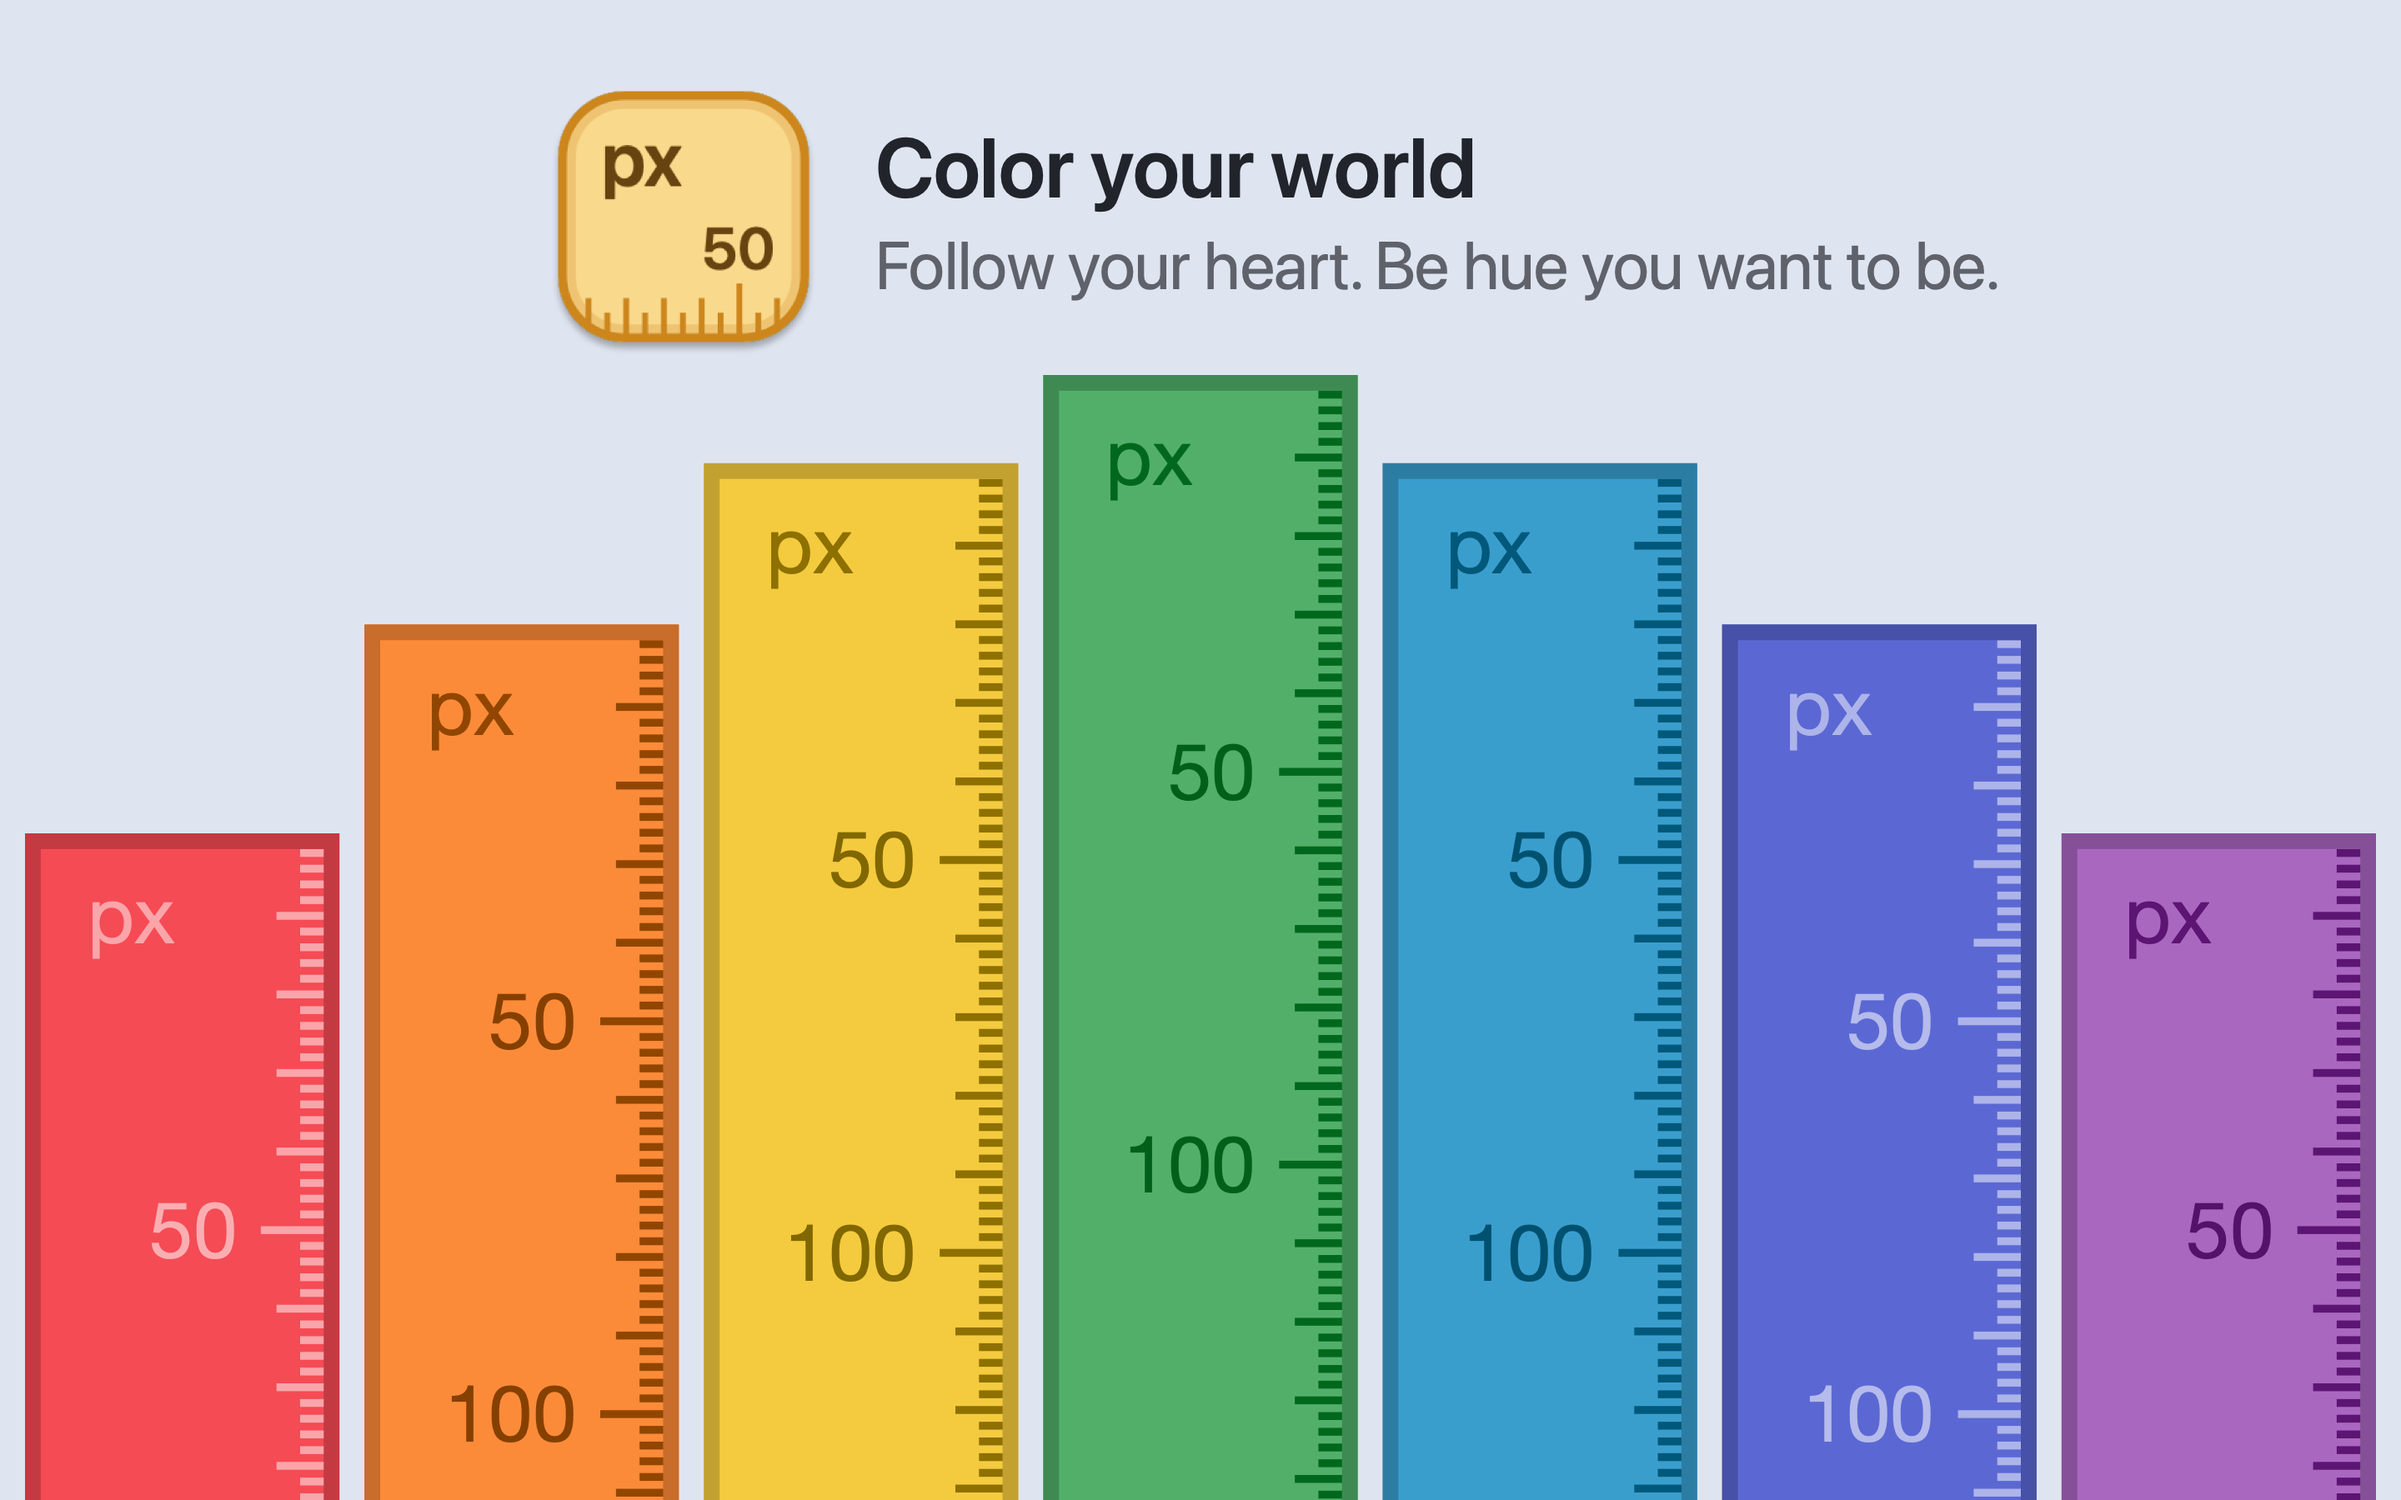
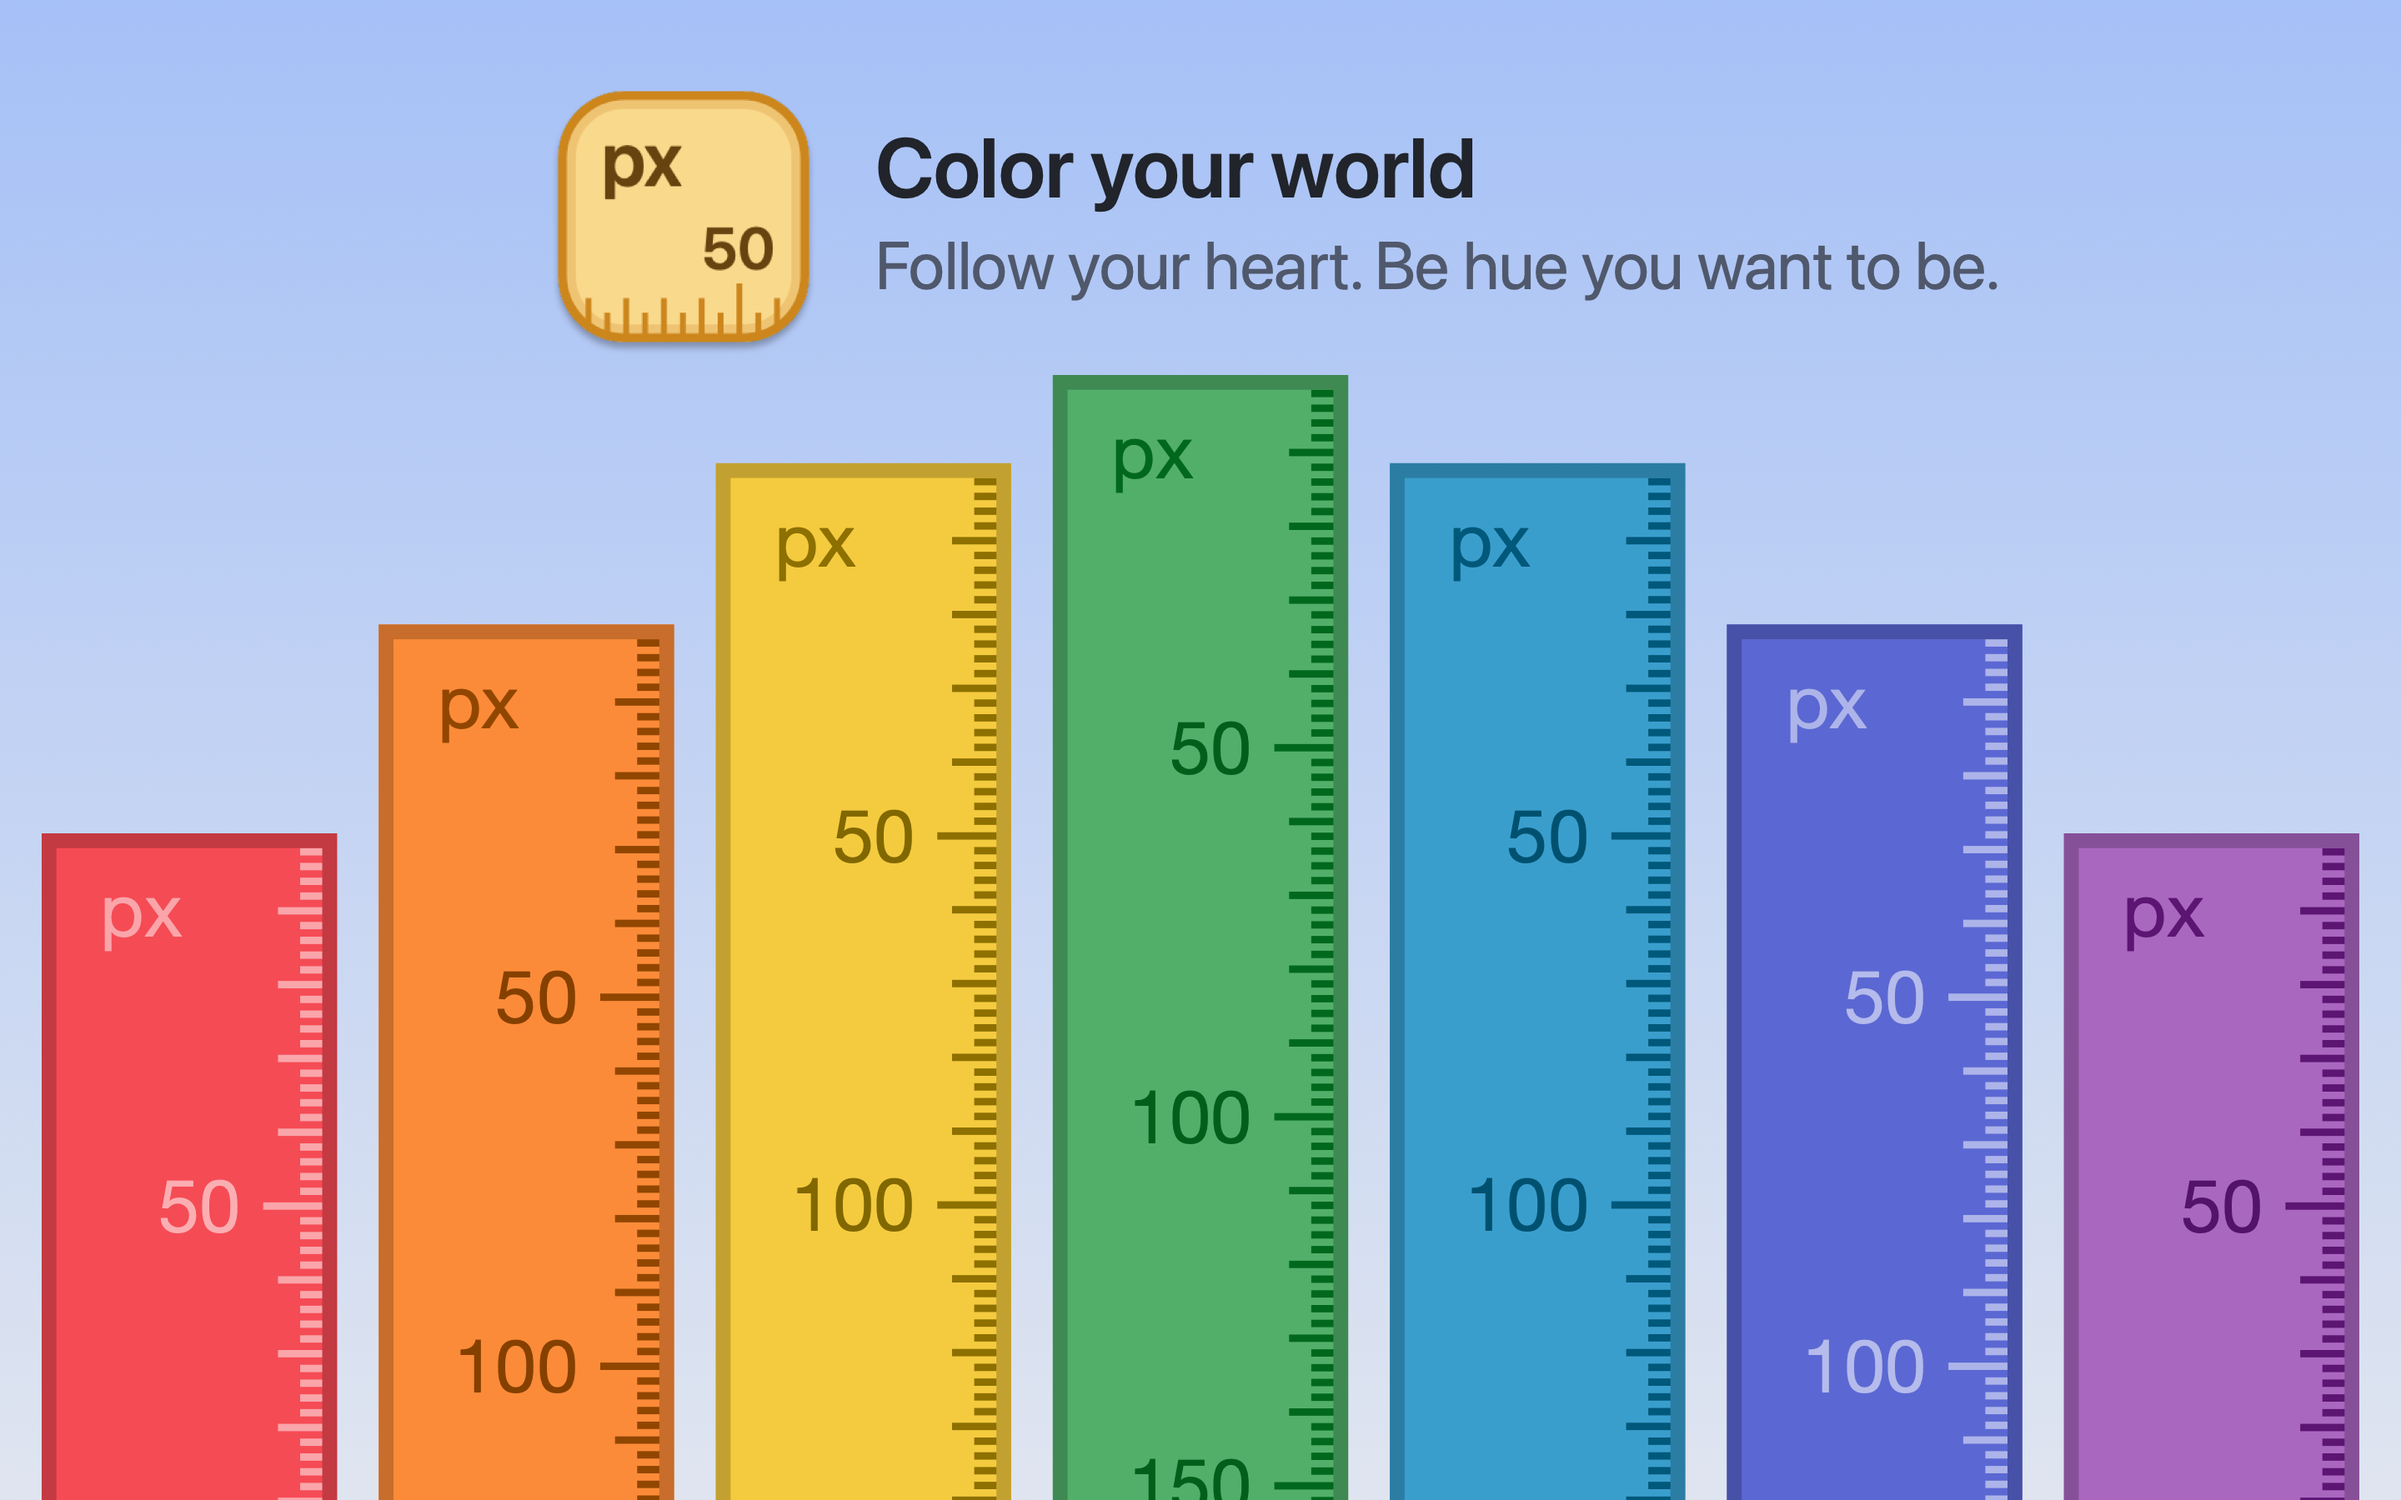
update store screenshots

diff --git a/Free Ruler/AppStoreScreenshotPreview.swift b/Free Ruler/AppStoreScreenshotPreview.swift
@@ -41,6 +41,7 @@ private struct AppStoreScreenshotScreen {
     let previewName: String
     let outputFilename: String
     let backgroundColor: NSColor
+    let bottomBackgroundColor: NSColor
     let usesDarkCopy: Bool
 
     static let measure = AppStoreScreenshotScreen(
@@ -50,6 +51,7 @@ private struct AppStoreScreenshotScreen {
         previewName: AppStoreMeasureScreenshotLayout.previewName,
         outputFilename: AppStoreMeasureScreenshotLayout.outputFilename,
         backgroundColor: AppStoreMeasureScreenshotLayout.backgroundColor,
+        bottomBackgroundColor: AppStoreMeasureScreenshotLayout.bottomBackgroundColor,
         usesDarkCopy: false
     )
 
@@ -60,6 +62,7 @@ private struct AppStoreScreenshotScreen {
         previewName: AppStoreUnitsScreenshotLayout.previewName,
         outputFilename: AppStoreUnitsScreenshotLayout.outputFilename,
         backgroundColor: AppStoreUnitsScreenshotLayout.backgroundColor,
+        bottomBackgroundColor: AppStoreUnitsScreenshotLayout.bottomBackgroundColor,
         usesDarkCopy: false
     )
 
@@ -70,6 +73,7 @@ private struct AppStoreScreenshotScreen {
         previewName: AppStoreColorsScreenshotLayout.previewName,
         outputFilename: AppStoreColorsScreenshotLayout.outputFilename,
         backgroundColor: AppStoreColorsScreenshotLayout.backgroundColor,
+        bottomBackgroundColor: AppStoreColorsScreenshotLayout.bottomBackgroundColor,
         usesDarkCopy: true
     )
 
@@ -80,6 +84,7 @@ private struct AppStoreScreenshotScreen {
         previewName: AppStoreGroupsScreenshotLayout.previewName,
         outputFilename: AppStoreGroupsScreenshotLayout.outputFilename,
         backgroundColor: AppStoreGroupsScreenshotLayout.backgroundColor,
+        bottomBackgroundColor: AppStoreGroupsScreenshotLayout.bottomBackgroundColor,
         usesDarkCopy: true
     )
 
@@ -90,6 +95,7 @@ private struct AppStoreScreenshotScreen {
         previewName: AppStoreFlipScreenshotLayout.previewName,
         outputFilename: AppStoreFlipScreenshotLayout.outputFilename,
         backgroundColor: AppStoreFlipScreenshotLayout.backgroundColor,
+        bottomBackgroundColor: AppStoreFlipScreenshotLayout.bottomBackgroundColor,
         usesDarkCopy: false
     )
 
@@ -100,6 +106,7 @@ private struct AppStoreScreenshotScreen {
         previewName: AppStorePreferencesScreenshotLayout.previewName,
         outputFilename: AppStorePreferencesScreenshotLayout.outputFilename,
         backgroundColor: AppStorePreferencesScreenshotLayout.backgroundColor,
+        bottomBackgroundColor: AppStorePreferencesScreenshotLayout.bottomBackgroundColor,
         usesDarkCopy: false
     )
 
@@ -394,12 +401,13 @@ private enum AppStoreMeasureScreenshotLayout {
     static let previewName = "Measure anything"
     static let outputFilename = "01-measure-anything.png"
     static let backgroundColor = #colorLiteral(red: 0.385, green: 0.49, blue: 0.7, alpha: 1)
+    static let bottomBackgroundColor = #colorLiteral(red: 0.2844348404, green: 0.3620079787, blue: 0.5171542553, alpha: 1)
 
     static let rulerScale: CGFloat = 4.4
     static let rulerCornerX: CGFloat = 420
     static let rulerCornerY: CGFloat = 500
-    static let horizontalRulerLength: CGFloat = 1888
-    static let verticalRulerLength: CGFloat = 1070
+    static let horizontalRulerLength: CGFloat = 1860
+    static let verticalRulerLength: CGFloat = 1050
     static let sampleWindowWidth: CGFloat = 1850
     static let sampleWindowHeight: CGFloat = 1040
 
@@ -496,7 +504,8 @@ private enum AppStoreUnitsScreenshotLayout {
     static let subtitle = "Use pixels, millimeters, or inches."
     static let previewName = "Units"
     static let outputFilename = "05-switch-units.png"
-    static let backgroundColor = #colorLiteral(red: 0.3084420562, green: 0.521068275, blue: 0.509829402, alpha: 1)
+    static let backgroundColor = #colorLiteral(red: 0.3528921235, green: 0.5961602394, blue: 0.5833017148, alpha: 1)
+    static let bottomBackgroundColor = #colorLiteral(red: 0.3084420562, green: 0.521068275, blue: 0.509829402, alpha: 1)
 
     static let rulerScale: CGFloat = 6
     static let rulerX: CGFloat = 550
@@ -524,7 +533,8 @@ private enum AppStoreColorsScreenshotLayout {
     static let subtitle = "Follow your heart. Be hue you want to be."
     static let previewName = "Colors"
     static let outputFilename = "02-custom-colors.png"
-    static let backgroundColor = #colorLiteral(red: 0.875857736, green: 0.8972384907, blue: 0.94, alpha: 1)
+    static let backgroundColor = #colorLiteral(red: 0.6497740259, green: 0.7557746611, blue: 0.9677759309, alpha: 1)
+    static let bottomBackgroundColor = #colorLiteral(red: 0.875857736, green: 0.8972384907, blue: 0.94, alpha: 1)
 
     static let rulerOpacity: CGFloat = 1
     static let rulerCount = 7
@@ -584,28 +594,30 @@ private enum AppStoreColorsScreenshotLayout {
 
 private enum AppStoreGroupsScreenshotLayout {
     static let previewName = "Groups"
-    static let title = "Be independent, or join the group."
-    static let subtitle = "Separate horizontal and vertical rulers, or join forces."
+    static let title = "Be independent, or join forces."
+    static let subtitle = "Drag rulers separately or as a group."
     static let outputFilename = "03-groups.png"
-    static let backgroundColor = #colorLiteral(red: 0.906, green: 0.847, blue: 0.741, alpha: 1)
+    static let backgroundColor = #colorLiteral(red: 0.9411402926, green: 0.8768328317, blue: 0.7612973936, alpha: 1)
+    static let bottomBackgroundColor = #colorLiteral(red: 0.8283244681, green: 0.7442385697, blue: 0.5931689895, alpha: 1)
 
-    static let rulerScale: CGFloat = 4.5
-    static let rulerColor = #colorLiteral(red: 0.3738226593, green: 0.4209153354, blue: 0.9898249507, alpha: 1)
+    static let rulerScale: CGFloat = 5.5
+    static let rulerColor = #colorLiteral(red: 0.1046039086, green: 0.2732335166, blue: 0.7791223404, alpha: 0.8429164487)
 
-    static let groupedRulerX: CGFloat = 1050
-    static let groupedRulerY: CGFloat = 850
-    static let groupedRulerLength: CGFloat = 1330
-    static let groupedRulerWidth: CGFloat = 680
+    static let ungroupedVerticalRulerX: CGFloat = 250
+    static let ungroupedVerticalRulerY: CGFloat = 150
+    static let ungroupedVerticalRulerLength: CGFloat = 1450
 
-    static let ungroupedHorizontalRulerX: CGFloat = 700
-    static let ungroupedHorizontalRulerY: CGFloat = 520
-    static let ungroupedHorizontalRulerLength: CGFloat = 1430
+    static let ungroupedHorizontalRulerX: CGFloat = 125
+    static let ungroupedHorizontalRulerY: CGFloat = 1100
+    static let ungroupedHorizontalRulerLength: CGFloat = 2600
 
-    static let ungroupedVerticalRulerX: CGFloat = 450
-    static let ungroupedVerticalRulerY: CGFloat = 650
-    static let ungroupedVerticalRulerLength: CGFloat = 880
+    static let groupedRulerX: CGFloat = 630
+    static let groupedRulerY: CGFloat = 525
+    static let groupedRulerLength: CGFloat = 1630
+    static let groupedRulerWidth: CGFloat = 975
 
-    static let copyViewX: CGFloat = 360
+
+    static let copyViewX: CGFloat = 640
     static let copyViewY: CGFloat = 80
     static let copyIconX: CGFloat = AppStoreScreenshotLayout.copyIconX
     static let copyIconY: CGFloat = AppStoreScreenshotLayout.copyIconY
@@ -711,6 +723,7 @@ private enum AppStoreFlipScreenshotLayout {
     static let subtitle = "Your rulers, in any orientation."
     static let outputFilename = "04-flip-rulers.png"
     static let backgroundColor = #colorLiteral(red: 0.7959441489, green: 0.3479741865, blue: 0.516690138, alpha: 1)
+    static let bottomBackgroundColor = #colorLiteral(red: 0.7124833777, green: 0.311486458, blue: 0.4625112644, alpha: 1)
 
     static let rulerScale: CGFloat = 4.5
     static let copyViewX: CGFloat = 700
@@ -885,15 +898,16 @@ private enum AppStoreFlipScreenshotLayout {
 
 private enum AppStorePreferencesScreenshotLayout {
     static let title = "Pick your preferences"
-    static let subtitle = "Change color, opacity, and more."
+    static let subtitle = "Change opacity, add shadows, and more."
     static let previewName = "Preferences"
     static let outputFilename = "06-customize-rulers.png"
     static let backgroundColor = #colorLiteral(red: 0.5181607008, green: 0.4312165375, blue: 0.6487324834, alpha: 1)
+    static let bottomBackgroundColor = #colorLiteral(red: 0.4593747268, green: 0.3822944866, blue: 0.5751329787, alpha: 1)
 
     static let rulerScale: CGFloat = 6
     static let rulerOpacity: CGFloat = 0.75
-    static let verticalRulerX: CGFloat = 2300
-    static let verticalRulerY: CGFloat = 100
+    static let verticalRulerX: CGFloat = 250
+    static let verticalRulerY: CGFloat = 212
     static let verticalRulerLength: CGFloat = 2050
     static let horizontalRulerX: CGFloat = 100
     static let horizontalRulerY: CGFloat = 1180
@@ -1228,18 +1242,36 @@ private final class AppStoreScreenshotScenarioNSView: NSView {
         self.viewPlacements = Self.makeViewPlacements(for: screen, preferencesController: preferencesController)
         self.copyViewPlacement = Self.makeCopyViewPlacement(for: screen)
         super.init(frame: NSRect(origin: .zero, size: AppStoreScreenshotLayout.canvasSize))
-        for viewPlacement in viewPlacements {
-            addSubview(viewPlacement.container)
-        }
-        for rulerPlacement in rulerPlacements {
-            configureRuler(rulerPlacement.view)
-            addSubview(rulerPlacement.container)
-        }
+        installPlacements()
         addSubview(copyViewPlacement.container)
     }
 
     required init?(coder: NSCoder) {
         fatalError("init(coder:) has not been implemented")
+    }
+
+    private func installPlacements() {
+        switch screen.scenario {
+        case .groups:
+            installRulerPlacements()
+            installViewPlacements()
+        case .measure, .units, .colors, .flipRulers, .preferences:
+            installViewPlacements()
+            installRulerPlacements()
+        }
+    }
+
+    private func installViewPlacements() {
+        for viewPlacement in viewPlacements {
+            addSubview(viewPlacement.container)
+        }
+    }
+
+    private func installRulerPlacements() {
+        for rulerPlacement in rulerPlacements {
+            configureRuler(rulerPlacement.view)
+            addSubview(rulerPlacement.container)
+        }
     }
 
     override func draw(_ dirtyRect: NSRect) {
@@ -1783,8 +1815,7 @@ private final class AppStoreScreenshotScenarioNSView: NSView {
     }
 
     private func drawScenario() {
-        screen.backgroundColor.setFill()
-        NSRect(origin: .zero, size: AppStoreScreenshotLayout.canvasSize).fill()
+        drawBackground()
 
         switch screen.scenario {
         case .measure:
@@ -1801,6 +1832,38 @@ private final class AppStoreScreenshotScenarioNSView: NSView {
         case .preferences:
             drawSampleWindow(AppStorePreferencesScreenshotLayout.preferencesWindowRect)
         }
+    }
+
+    private func drawBackground() {
+        let rect = NSRect(origin: .zero, size: AppStoreScreenshotLayout.canvasSize)
+
+        drawVerticalGradient(
+            in: rect,
+            topColor: screen.backgroundColor,
+            bottomColor: screen.bottomBackgroundColor
+        )
+    }
+
+    private func drawVerticalGradient(in rect: NSRect, topColor: NSColor, bottomColor: NSColor) {
+        guard let context = NSGraphicsContext.current?.cgContext,
+              let gradient = CGGradient(
+                colorsSpace: CGColorSpaceCreateDeviceRGB(),
+                colors: [topColor.cgColor, bottomColor.cgColor] as CFArray,
+                locations: [0, 1]
+              ) else {
+            topColor.setFill()
+            rect.fill()
+            return
+        }
+
+        context.saveGState()
+        context.drawLinearGradient(
+            gradient,
+            start: CGPoint(x: rect.midX, y: rect.minY),
+            end: CGPoint(x: rect.midX, y: rect.maxY),
+            options: []
+        )
+        context.restoreGState()
     }
 
     private func configureRuler(_ view: RuleView) {
